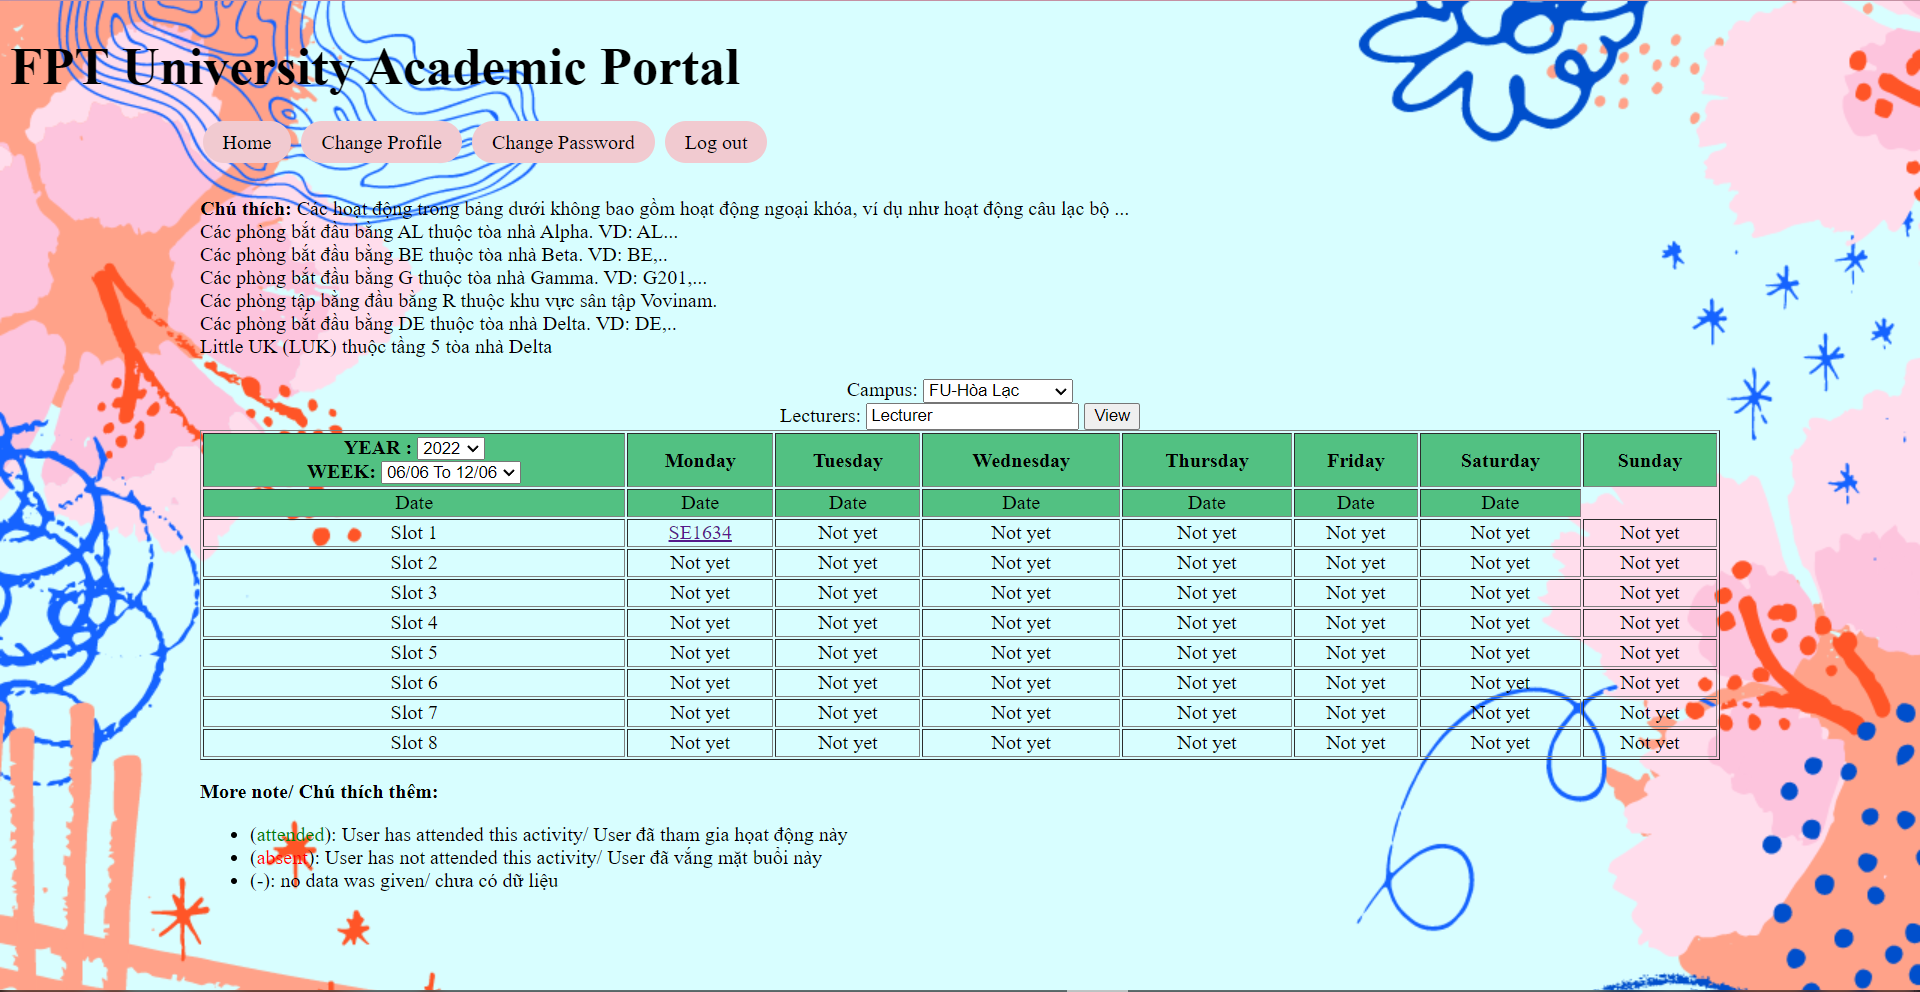
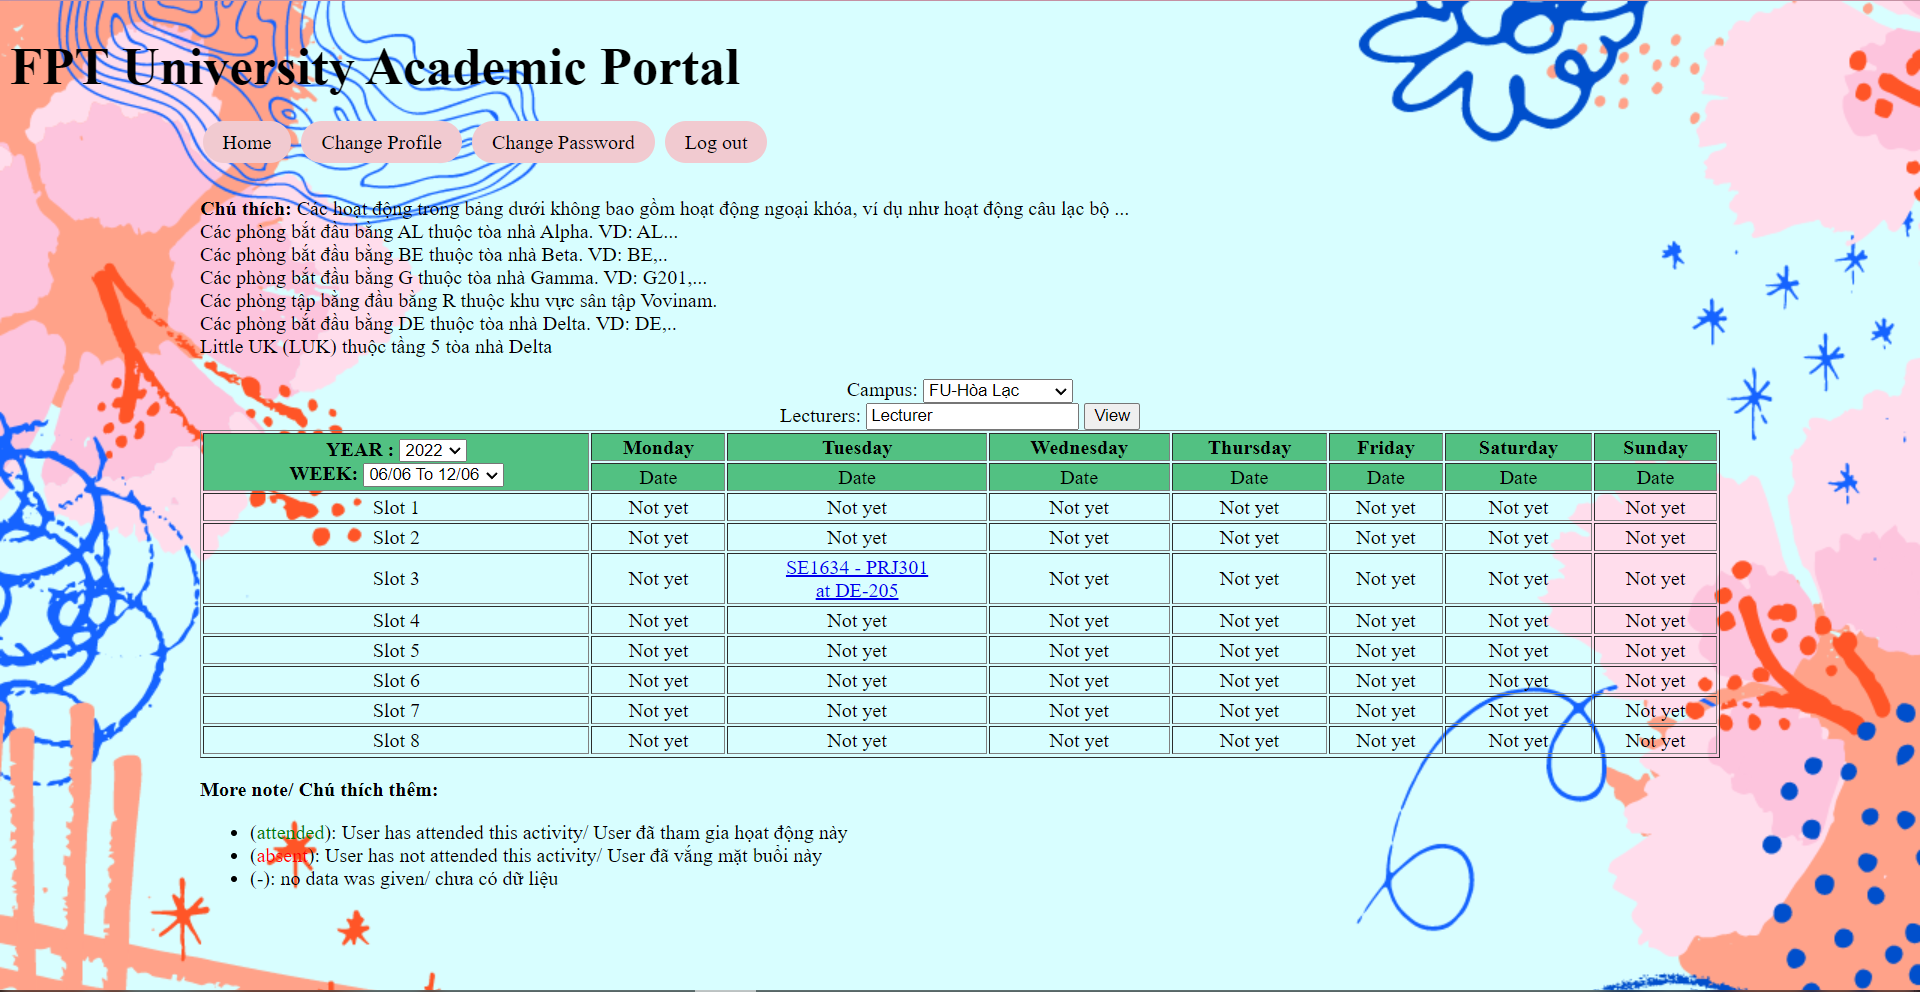
Modified Mock-UP HTML
Modified Mock-UP HTML

Changed region(s): [[0.0938, 0.4375, 0.9062, 0.9062]]

diff --git a/MockUp/index.html b/MockUp/index.html
@@ -12,7 +12,6 @@
   <header>
     <h1> FPT University Academic Portal </h1>  
     <h3> Hello User !!</h3>
-    <br>  
   </header>
      <nav>
       <a class="button" href="index.html">Home</a>
@@ -23,11 +22,11 @@
      <br>
      <br>
       <p class="orangeTitle" >Academic Information</p>
-      <div class="tsDoai">
+      <div class="tab">
         <div class="block"> 
           <a  href="Schedule.html">
             <span>
-              <img class="lol" src="image/Presentation1.jpg" > <br>
+              <img class="imgtitle" src="image/Presentation1.jpg" > <br>
             </span>
            </a>
           <a class="loa"  href="Schedule.html"> Weekly timetable</a> <br>(Thời khóa biểu từng tuần) 
@@ -36,29 +35,28 @@
         <div class="block"> 
           <a href="syllabus.html">
             <span>
-              <img class="lol" src="image/Presentation2.jpg" > <br>
+              <img class="imgtitle" src="image/Presentation2.jpg"> <br>
             </span>
           </a>
-          <a class="loa"  href="syllabus.html">View Syllabus</a> <br>(Xem đề cương môn học)
+          <a class="dir"  href="syllabus.html">View Syllabus</a> <br>(Xem đề cương môn học)
         </div>
 
         <div class="block"> 
           <a href="Transcript.html">
             <span>
-              <img class="lol" src="image/Presentation4.jpg" > <br>
+              <img class="imgtitle" src="image/Presentation4.jpg" > <br>
             </span>
           </a>
-          <a class="loa"  href="Transcript.html">Academic Transcript</a> <br>(Báo cáo điểm)
+          <a class="dir"  href="Transcript.html">Academic Transcript</a> <br>(Báo cáo điểm)
         </div>
-
 
         <div class="block"> 
           <a href="Curriculum.html">
             <span>
-              <img class="lol" src="image/Presentation3.jpg" > <br>
+              <img class="imgtitle" src="image/Presentation3.jpg" > <br>
             </span>
           </a>
-          <a class="loa"  href="Curriculum.html">Curriculum</a> <br>(Khung chương trình)
+          <a class="dir"  href="Curriculum.html">Curriculum</a> <br>(Khung chương trình)
         </div>    
       </div>
       <footer>© Powered by FPT University</footer>

diff --git a/MockUp/Schedule.html b/MockUp/Schedule.html
@@ -53,7 +53,7 @@
         
         <table style="width:100%" id="schedule" border="1">
             <tr class="date">
-                <th browspan="2">
+                <th rowspan="2">  
                     YEAR :
                     <select name="">
                         <option>2020</option>
@@ -64,8 +64,8 @@
                     WEEK: <select name="">
                         <option value="">03/01 To 09/01</option>
                         <option selected >06/06 To 12/06</option>
-                    </select>
-                </th>
+                    </select>  
+                </th>  
                 <th>Monday</th>
                 <th>Tuesday</th>
                 <th>Wednesday</th>
@@ -74,7 +74,7 @@
                 <th>Saturday</th>
                 <th>Sunday</th>
             </tr>
-            <tr class="day"> <!--đẩy giá trị ngày-->
+            <tr class="day"> 
                 <td>Date</td>
                 <td>Date</td>
                 <td>Date</td>
@@ -86,7 +86,7 @@
             <tbody class="tab">
                 <tr class="slot1">
                     <td>Slot 1</td>
-                    <td><a href="Attend.html">SE1634</a></td>
+                    <td>Not yet</td>
                     <td>Not yet</td>
                     <td>Not yet</td>
                     <td>Not yet</td>
@@ -108,7 +108,10 @@
                 <tr class="slot3">
                     <td>Slot 3</td>
                     <td>Not yet</td>
-                    <td>Not yet</td>
+                    <td><a href="Attend.html">SE1634 - 
+                        PRJ301 <br>
+                        at DE-205</a> 
+                    </td>
                     <td>Not yet</td>
                     <td>Not yet</td>
                     <td>Not yet</td>

diff --git a/MockUp/mystyle/mystyle.css b/MockUp/mystyle/mystyle.css
@@ -18,7 +18,6 @@ h3{
     border-radius: 40px;
     text-align: center;
     font-size: 18px;
-    /* background-color: cyan; */
     margin: 0 5% 0 5% ;
     border: 1px solid black;
     
@@ -27,26 +26,24 @@ h3{
     background-color: beige;
     color: black;
 }
-.lol:hover, .lol:active {
+.imgtitle:hover, .imgtitle:active {
     width: 70%;
 }
 
-.loa{
+.dir{
     text-align: center;
     justify-content: center;
     color: black;
     text-decoration: none;
 }
-.lol {
+.imgtitle {
     margin-top: 11%;
     width: 50%;
     border-radius: 6%;
-    /* vertical-align:middle; */
 }
-.tsDoai{
+.tab{
     display: flex;
     justify-content: center;
-    /* justify-content: space-between; */
 }
 
 .orangeTitle {
